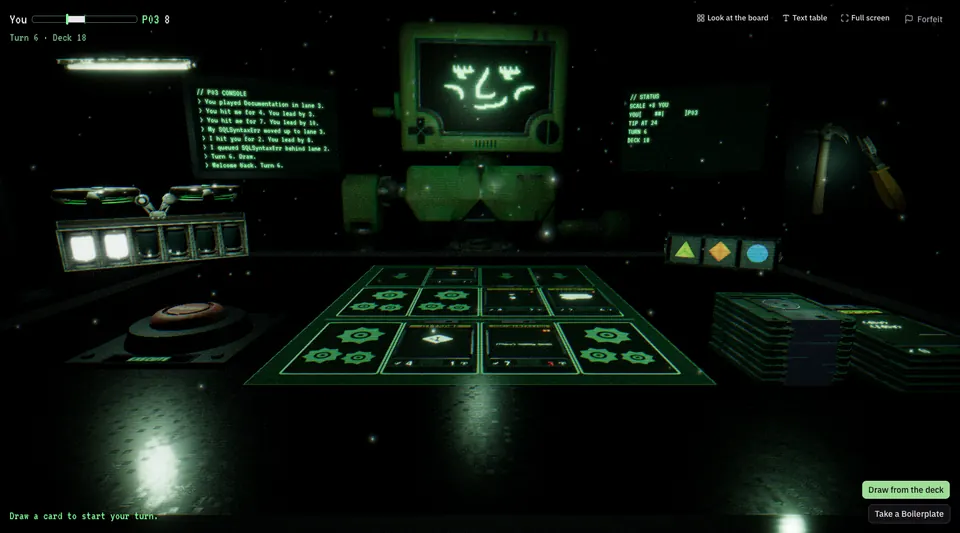
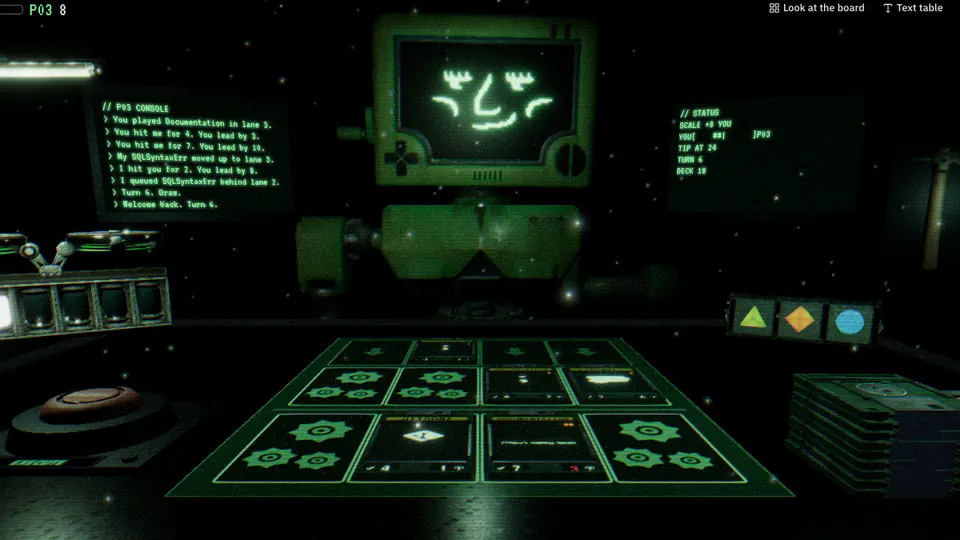
Keep P03's terminal inside the README and centre the screenshot on his face

diff --git a/client/src/components/p03/Infected.tsx b/client/src/components/p03/Infected.tsx
@@ -37,7 +37,7 @@ function corrupt(progress: number): string {
     .join('')
 }
 
-/** The README's gameplay screenshot, which P03 takes over: it tears, then boots into his terminal and breaks out. */
+/** The README's gameplay screenshot, which P03 takes over: it tears, then boots into his terminal. */
 export function Infected({ lines, user }: { lines: readonly string[] | null; user: string | undefined }) {
   const [phase, setPhase] = useState<Phase>(firstPhase)
   const [loaded, setLoaded] = useState(false)
@@ -91,9 +91,7 @@ export function Infected({ lines, user }: { lines: readonly string[] | null; use
           </button>
         ) : null}
       </div>
-      <div
-        className={`relative h-80 transition-[margin,rotate,translate] duration-500 ease-[steps(5)] motion-reduce:transition-none sm:h-[22rem] ${broken ? 'breakout' : ''}`}
-      >
+      <div className="relative h-80 sm:h-[22rem]">
         {broken ? (
           <>
             <div className="h-full overflow-hidden border border-[#2f6b3d] shadow-[0_0_40px_rgb(125_255_154/0.12)]">
@@ -101,8 +99,8 @@ export function Infected({ lines, user }: { lines: readonly string[] | null; use
                 <Terminal lines={lines ?? ['...']} user={user} />
               </Suspense>
             </div>
-            {/* Where it tore through the README's frame, the corruption spills out. */}
-            <Corruption cols={10} rows={5} corner="bottom-right" seed={53} className="-top-[60px] right-0" />
+            {/* Where P03 got in, the corruption spills out: into the title bar, and out under the frame. */}
+            <Corruption cols={12} rows={3} corner="top-right" seed={53} className="top-px right-px z-30" />
             <Corruption cols={12} rows={3} corner="top-left" seed={71} className="top-full left-0" />
           </>
         ) : (
@@ -111,9 +109,9 @@ export function Infected({ lines, user }: { lines: readonly string[] | null; use
               src="/readme/table.webp"
               alt="The 3D table: P03 behind a board of floppy-disk cards"
               width={960}
-              height={533}
+              height={540}
               onLoad={() => setLoaded(true)}
-              className="size-full object-cover"
+              className="size-full object-cover object-[50%_20%]"
             />
             {phase === 'glitch' ? <Tears tick={tick} /> : null}
           </div>
@@ -135,7 +133,7 @@ function Tears({ tick }: { tick: number }) {
             key={slice}
             src="/readme/table.webp"
             alt=""
-            className="absolute inset-0 size-full object-cover"
+            className="absolute inset-0 size-full object-cover object-[50%_20%]"
             style={{
               clipPath: `inset(${(slice / SLICES) * 100}% 0 ${100 - ((slice + 1) / SLICES) * 100}% 0)`,
               transform: `translateX(${offset.toFixed(1)}px)`,

diff --git a/client/src/index.css b/client/src/index.css
@@ -122,19 +122,6 @@
   }
 }
 
-/* The README's infected screenshot, broken out past the README's frame into the page's margins. */
-.breakout {
-  --break: 1.75rem;
-  margin-inline: calc(var(--break) * -1);
-  rotate: -0.6deg;
-  translate: 0 -0.25rem;
-}
-@media (min-width: 40rem) {
-  .breakout {
-    --break: 4.25rem;
-  }
-}
-
 /* A change on the scale's readout, rising and fading; reduced motion keeps only the fade. */
 @keyframes health-change {
   from {
